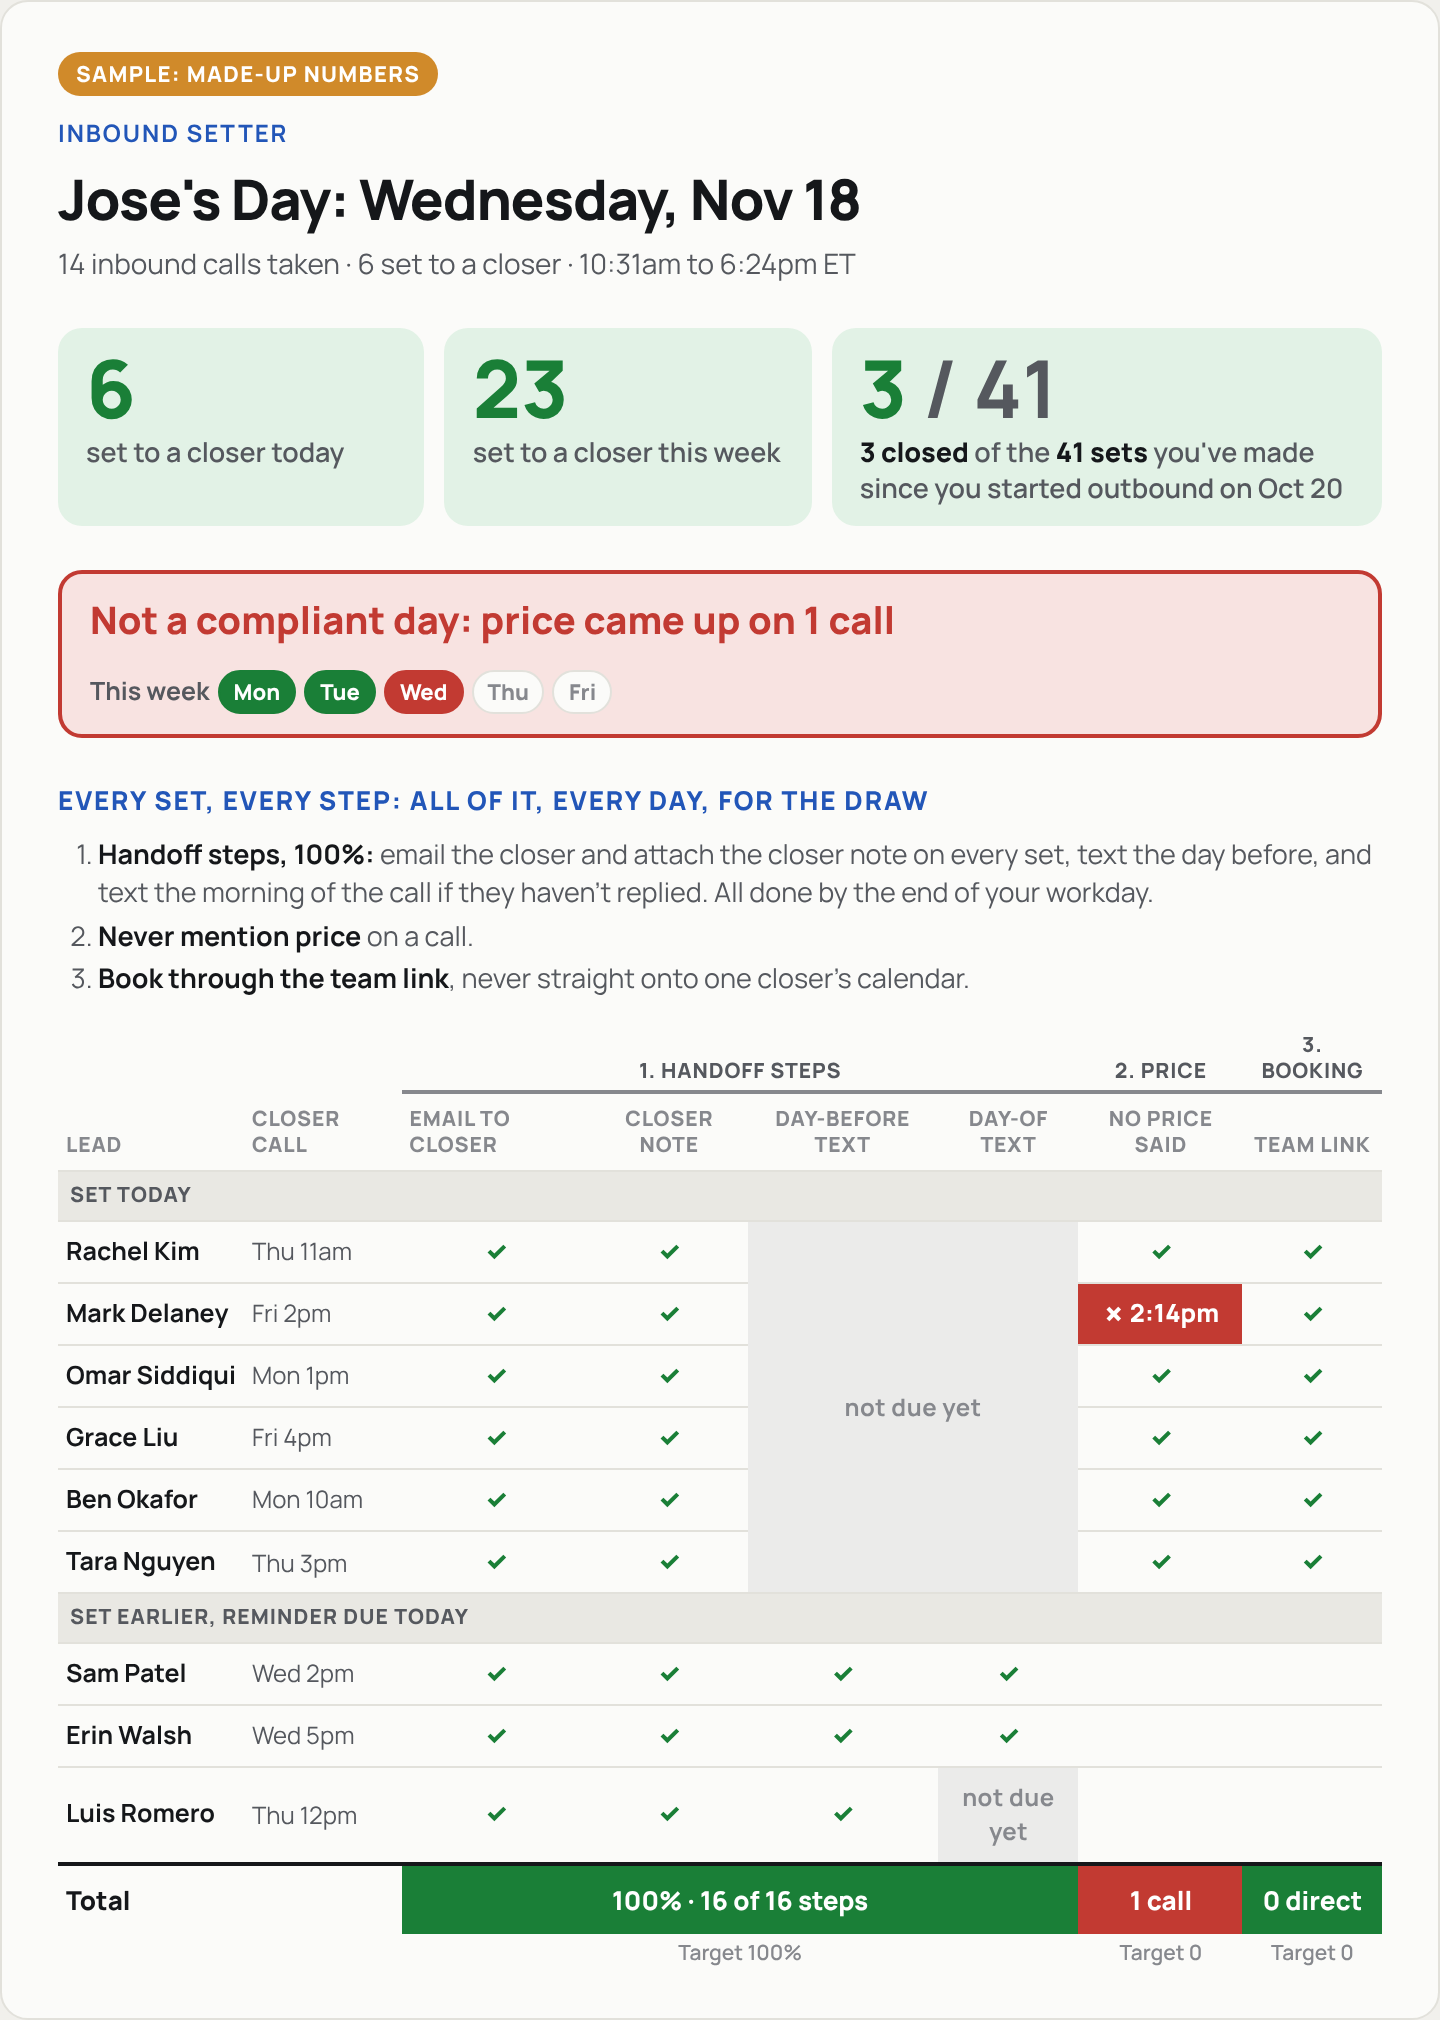
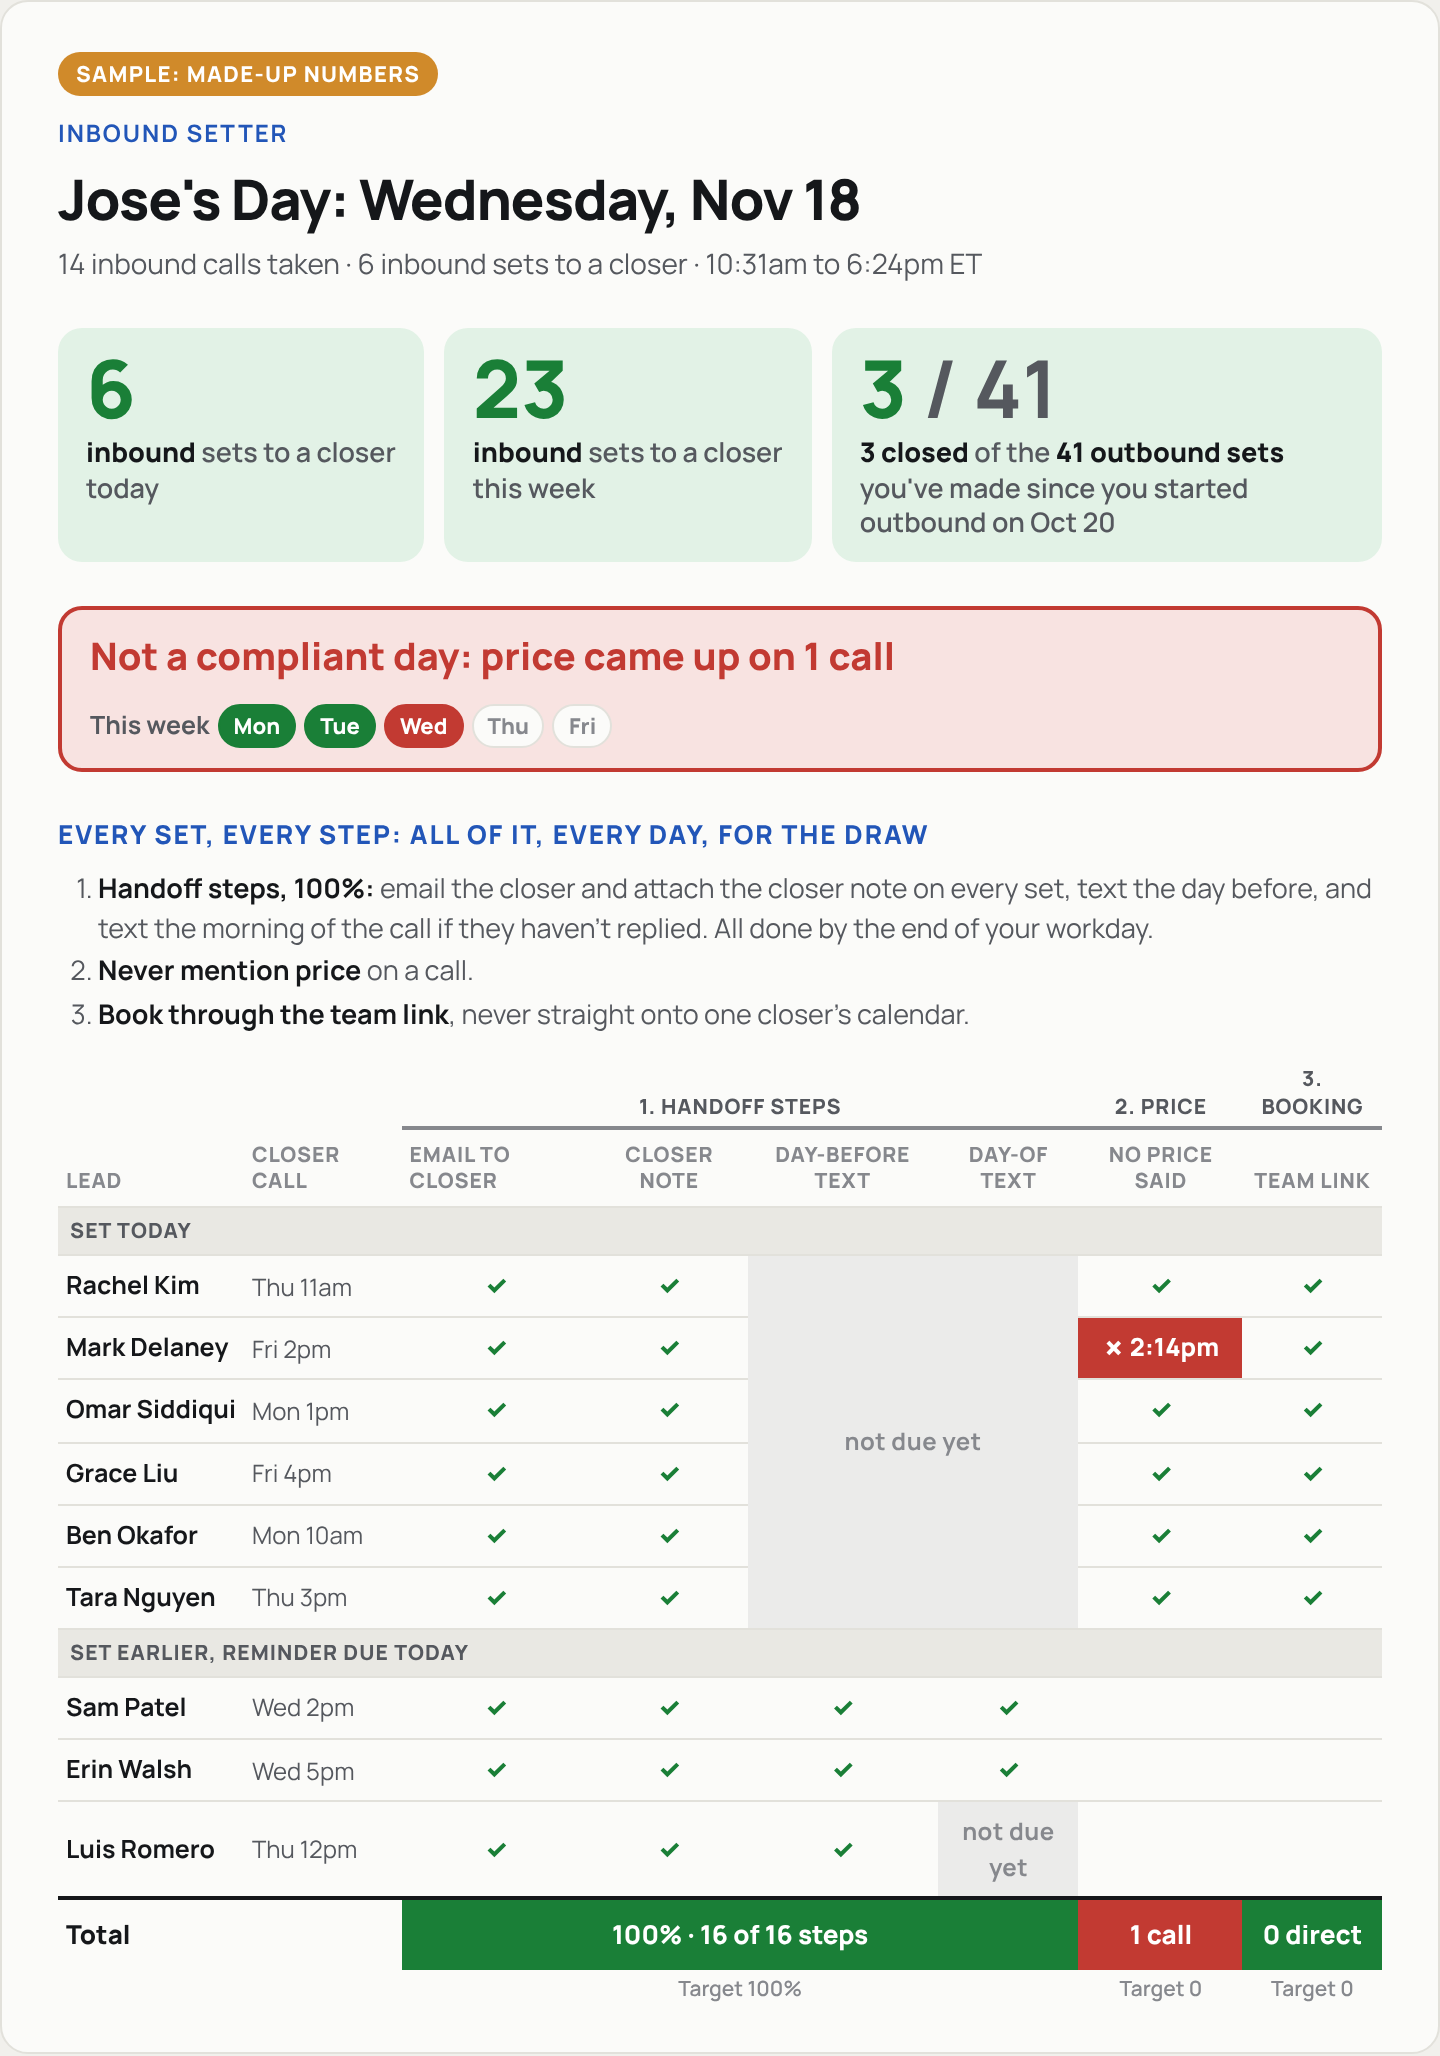
Inbound mockup v6: label today/week tiles as inbound sets, third tile as outbound sets
Claude-Session: https://claude.ai/code/session_01D9LMPTL1NiKJvZGnvcS1D1

diff --git a/mockups/inbound-scorecards/cards.html b/mockups/inbound-scorecards/cards.html
@@ -2,6 +2,7 @@
      Static made-up numbers, not from Close or the bots. Styles come from kit/template.html and kit/cover.html (see render.py).
      v2 (Sheila, Nov 20): inbound cards drop the KPI tiles; one table of every lead with a step owed that day,
      and a totals row at the bottom that carries each KPI's result.
+     v6 (Sheila, Nov 20): today and this week count inbound sets only; the third tile counts outbound sets only.
      v5 (Sheila, Nov 20): three tiles on top of Jose's and Jordan's cards: sets today, sets this week, closes / sets since outbound start.
      v4 (Sheila, Nov 20): every done step is a check; reminders not yet due are one gray "not due yet" block.
      v3 (Sheila, Nov 20): Jose's and Jordan's inbound cards get one tile under the title: closes / sets since they started outbound. -->
@@ -52,13 +53,13 @@
     <div class="sample">Sample: made-up numbers</div>
     <div class="eyebrow" style="margin-top:10px">Inbound Setter</div>
     <h1>Jose's Day: Wednesday, Nov 18</h1>
-    <div class="meta">14 inbound calls taken · 6 set to a closer · 10:31am to 6:24pm ET</div>
+    <div class="meta">14 inbound calls taken · 6 inbound sets to a closer · 10:31am to 6:24pm ET</div>
   </header>
 
   <div class="top3">
-    <div class="t3"><div class="n">6</div><div class="t">set to a closer today</div></div>
-    <div class="t3"><div class="n">23</div><div class="t">set to a closer this week</div></div>
-    <div class="t3"><div class="n">3<span> / 41</span></div><div class="t"><b>3 closed</b> of the <b>41 sets</b> you've made since you started outbound on Oct 20</div></div>
+    <div class="t3"><div class="n">6</div><div class="t"><b>inbound</b> sets to a closer today</div></div>
+    <div class="t3"><div class="n">23</div><div class="t"><b>inbound</b> sets to a closer this week</div></div>
+    <div class="t3"><div class="n">3<span> / 41</span></div><div class="t"><b>3 closed</b> of the <b>41 outbound sets</b> you've made since you started outbound on Oct 20</div></div>
   </div>
 
   <div class="verdict">
